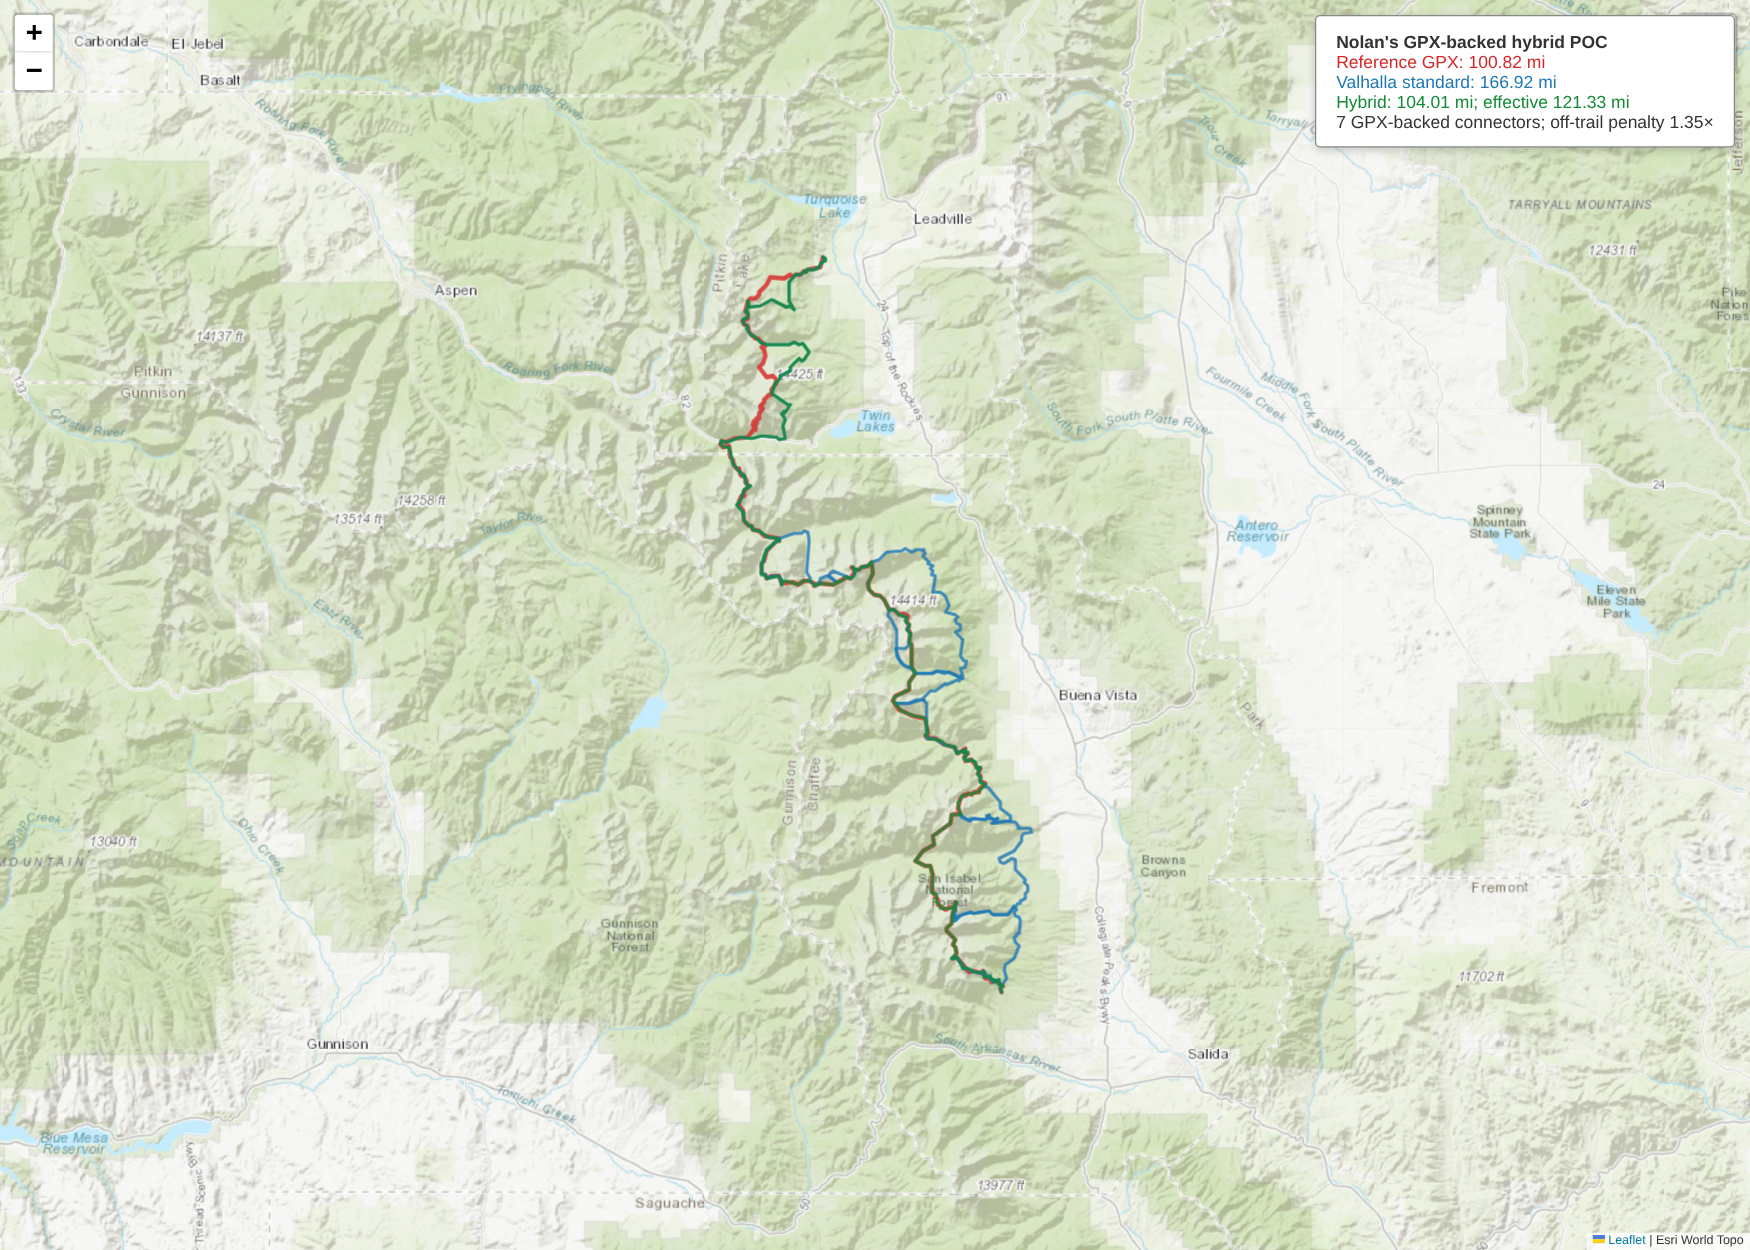
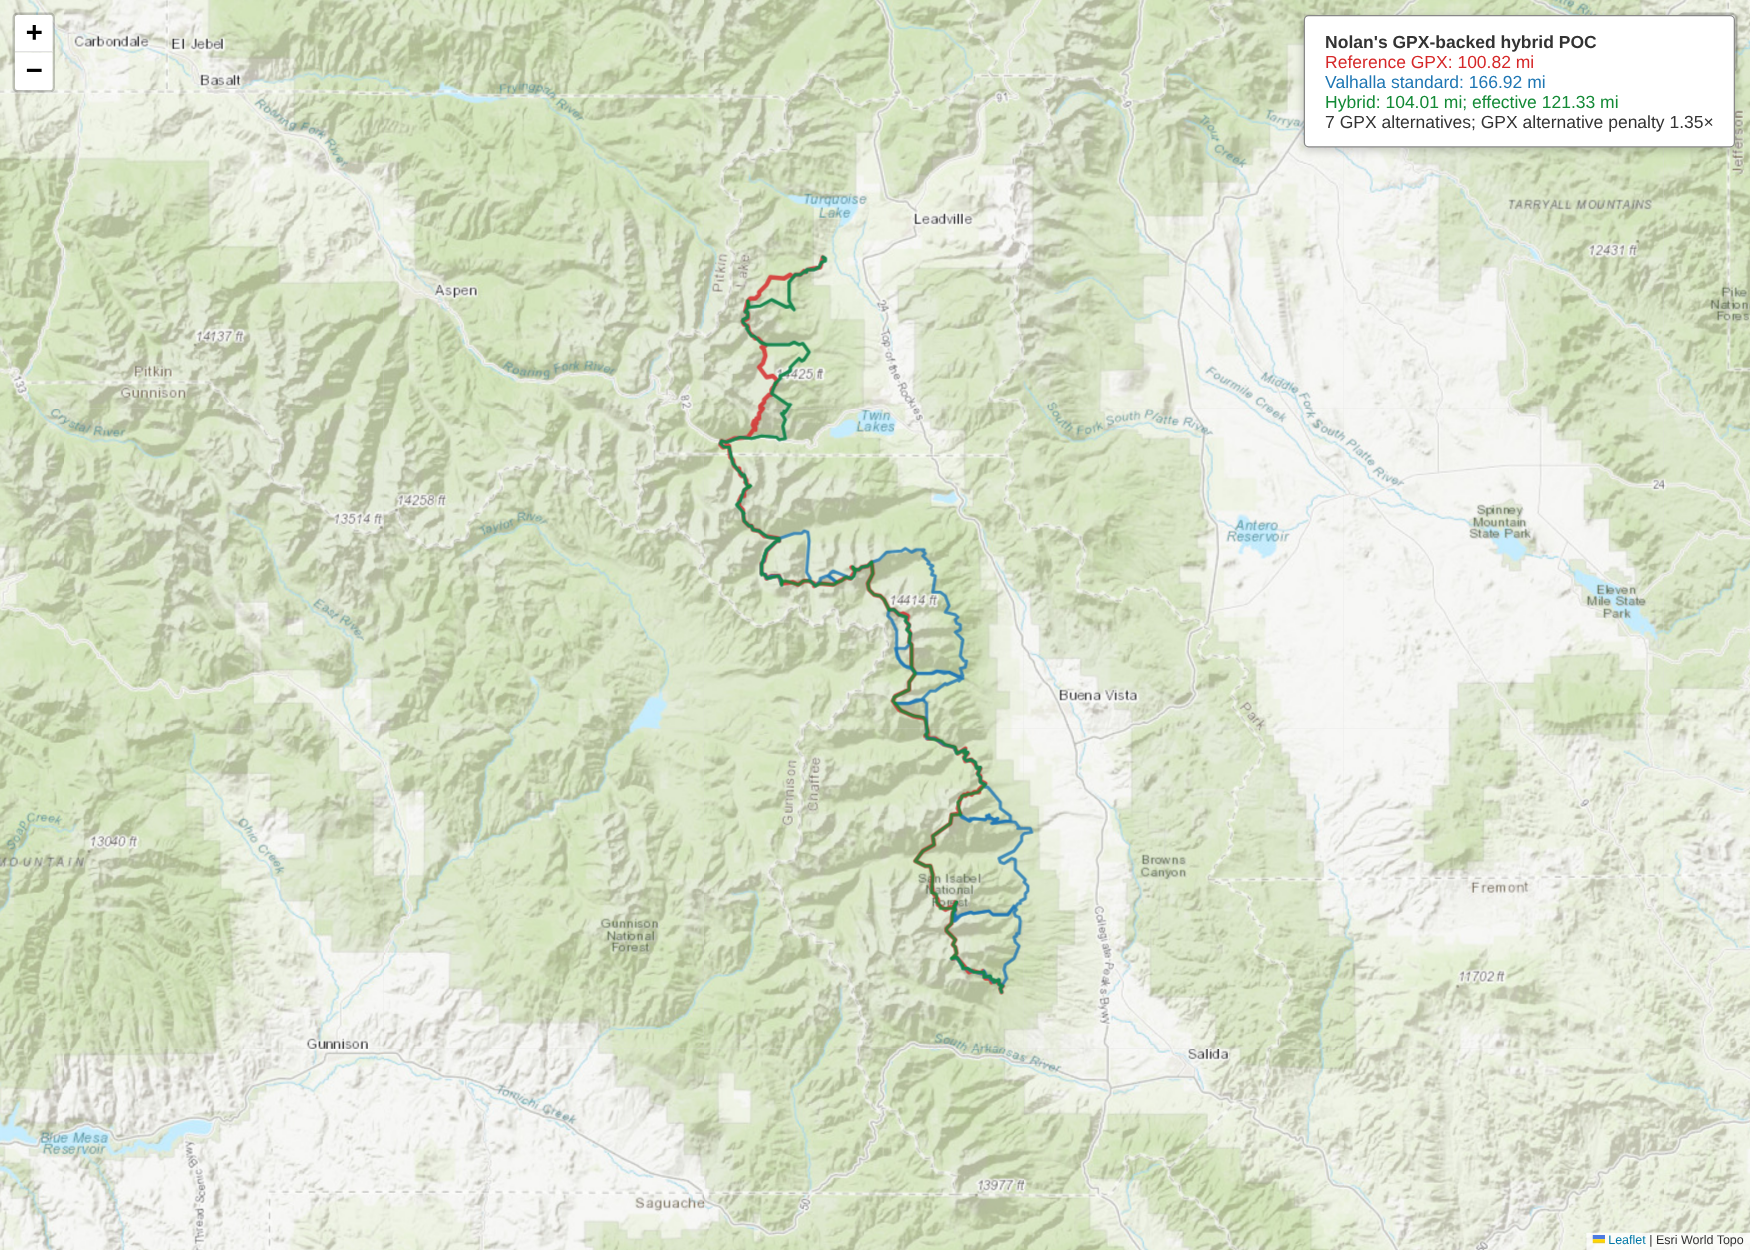
refactor: clarify GPX alternative provenance
- Avoid claiming segment-level off-trail classification for whole-leg alternatives
- Rename exported penalty and alternative fields consistently
- Pin GPX fallback geometry and effective mileage in tests

Changed region(s): [[0.7406, 0.0, 0.9257, 0.1248]]

diff --git a/peakroutefinder/poc/nolans.py b/peakroutefinder/poc/nolans.py
@@ -17,7 +17,7 @@ EARTH_RADIUS_MILES = 3958.7613
 GPX_NAMESPACE = {"g": "http://www.topografix.com/GPX/1/1"}
 MAX_DISTANCE_METERS = 250_000
 MAX_HIKING_DIFFICULTY = 6
-GPX_OFFTRAIL_PENALTY = 1.35
+GPX_ALTERNATIVE_PENALTY = 1.35
 STANDARD_PEAK_NAMES = (
     "Mount Shavano",
     "Tabeguache Peak",
@@ -273,11 +273,11 @@ def route_sequence(client: ValhallaClient, points: Sequence[Peak]) -> dict:
 def hybrid_route(
     valhalla_route: dict,
     reference_legs: Sequence[dict],
-    offtrail_penalty: float = GPX_OFFTRAIL_PENALTY,
+    alternative_penalty: float = GPX_ALTERNATIVE_PENALTY,
 ) -> dict:
     """Choose between Valhalla and penalty-weighted GPX-backed connectors."""
-    if offtrail_penalty < 1.0:
-        raise ValueError("off-trail penalty must be at least 1.0")
+    if alternative_penalty < 1.0:
+        raise ValueError("GPX alternative penalty must be at least 1.0")
     if len(valhalla_route["legs"]) != len(reference_legs):
         raise ValueError("reference legs do not match the Valhalla route")
 
@@ -286,7 +286,7 @@ def hybrid_route(
         valhalla_route["legs"], reference_legs
     ):
         gpx_miles = path_miles(reference_leg["geometry"])
-        gpx_effective_miles = gpx_miles * offtrail_penalty
+        gpx_effective_miles = gpx_miles * alternative_penalty
         use_valhalla = (
             valhalla_leg["status"] == "ok"
             and valhalla_leg["miles"] <= gpx_effective_miles
@@ -295,7 +295,7 @@ def hybrid_route(
             "origin": valhalla_leg["origin"],
             "destination": valhalla_leg["destination"],
             "status": "ok",
-            "source": "valhalla" if use_valhalla else "gpx-backed-off-trail",
+            "source": "valhalla" if use_valhalla else "gpx-alternative",
             "miles": valhalla_leg["miles"] if use_valhalla else gpx_miles,
             "effective_miles": (
                 valhalla_leg["miles"] if use_valhalla else gpx_effective_miles
@@ -306,7 +306,7 @@ def hybrid_route(
                 else reference_leg["geometry"]
             ),
             "reference_gpx_miles": reference_leg["miles"],
-            "gpx_connector_miles": gpx_miles,
+            "gpx_alternative_miles": gpx_miles,
             "gpx_effective_miles": gpx_effective_miles,
             "valhalla_miles": (
                 valhalla_leg["miles"] if valhalla_leg["status"] == "ok" else None
@@ -320,8 +320,8 @@ def hybrid_route(
         "complete": True,
         "total_miles": sum(leg["miles"] for leg in legs),
         "effective_miles": sum(leg["effective_miles"] for leg in legs),
-        "gpx_connector_count": sum(
-            leg["source"] == "gpx-backed-off-trail" for leg in legs
+        "gpx_alternative_count": sum(
+            leg["source"] == "gpx-alternative" for leg in legs
         ),
         "legs": legs,
     }
@@ -412,7 +412,7 @@ def main() -> int:
             "shortest": True,
             "max_hiking_difficulty": MAX_HIKING_DIFFICULTY,
             "max_distance_meters": MAX_DISTANCE_METERS,
-            "gpx_offtrail_penalty": GPX_OFFTRAIL_PENALTY,
+            "gpx_alternative_penalty": GPX_ALTERNATIVE_PENALTY,
             "reference_gpx_sha256": hashlib.sha256(
                 args.reference_gpx.read_bytes()
             ).hexdigest(),
@@ -434,7 +434,7 @@ def main() -> int:
         if route_name == "hybrid":
             summary += (
                 f" (effective {route['effective_miles']:.2f}; "
-                f"{route['gpx_connector_count']} GPX connectors)"
+                f"{route['gpx_alternative_count']} GPX alternatives)"
             )
         print(f"{route_name}: {summary}")
         for leg in route["legs"]:

diff --git a/tests/test_nolans_valhalla.py b/tests/test_nolans_valhalla.py
@@ -42,7 +42,7 @@ def test_split_reference_legs_returns_miles_and_geometry() -> None:
     assert legs[1]["geometry"] == [(0.0, 1.0), (0.0, 2.0)]
 
 
-def test_hybrid_route_selects_penalized_gpx_connectors() -> None:
+def test_hybrid_route_selects_penalized_gpx_alternatives() -> None:
     valhalla_legs = [
         {
             "origin": "A",
@@ -75,14 +75,19 @@ def test_hybrid_route_selects_penalized_gpx_connectors() -> None:
     route = hybrid_route({"legs": valhalla_legs}, reference_legs)
 
     assert route["complete"] is True
-    assert route["gpx_connector_count"] == 2
+    assert route["gpx_alternative_count"] == 2
     assert [leg["source"] for leg in route["legs"]] == [
-        "gpx-backed-off-trail",
+        "gpx-alternative",
         "valhalla",
-        "gpx-backed-off-trail",
+        "gpx-alternative",
     ]
     assert route["legs"][0]["geometry"] == reference_legs[0]["geometry"]
     assert route["legs"][1]["geometry"] == valhalla_legs[1]["geometry"]
+    assert route["legs"][2]["geometry"] == reference_legs[2]["geometry"]
+    assert route["legs"][2]["effective_miles"] == pytest.approx(
+        route["legs"][2]["gpx_effective_miles"]
+    )
+    assert route["legs"][2]["valhalla_miles"] is None
     assert route["total_miles"] == pytest.approx(
         69.093 + 90.0 + 69.093, abs=0.001
     )

diff --git a/poc/valhalla/README.md b/poc/valhalla/README.md
@@ -48,7 +48,7 @@ The GPX comes from the [Fastest Known Time Nolan's route page](https://fastestkn
 | Costing | `pedestrian`, `shortest=true`, `use_hills=1` |
 | Hiking difficulty | 6, the most permissive `sac_scale` setting; this is a coverage POC, not a safety recommendation |
 | Maximum route distance | 250,000 meters, explicitly above Valhalla's 100,000-meter default |
-| GPX off-trail penalty | 1.35× for candidate selection only; actual GPX mileage is still reported |
+| GPX alternative penalty | 1.35× for candidate selection only; actual GPX mileage is still reported |
 
 ## Results
 
@@ -62,7 +62,7 @@ Valhalla returned geometry for every requested leg. No leg failed, but many retu
 | GPX-backed hybrid, same endpoints | 104.01 mi | 100.82 mi | +3.19 mi (+3.2%) |
 | Sherman-to-Shavano variant, summit to summit | 166.39 mi | No matching GPX | Not compared |
 
-The hybrid selects each GPX leg when `GPX miles × 1.35 < Valhalla miles`, or when Valhalla fails. It uses **7 GPX-backed connectors**, retains Valhalla on 8 legs, and has **121.33 penalty-weighted miles**. Actual mileage remains the geometric distance of the selected path; the penalty affects only selection. The `gpx-backed-off-trail` source identifies the connector's evidence, not a claim that every GPX point is off-trail.
+The hybrid selects each GPX leg when `GPX miles × 1.35 < Valhalla miles`, or when Valhalla fails. It uses **7 GPX alternatives**, retains Valhalla on 8 legs, and has **121.33 penalty-weighted miles**. Actual mileage remains the geometric distance of the selected path; the penalty affects only selection. The `gpx-alternative` source explicitly denotes whole-leg reference geometry; no segment-level off-trail classification is claimed.
 
 The Sherman variant uses Sherman, Elbert, La Plata, Huron, Missouri, Belford, Oxford, Harvard, Columbia, Yale, Princeton, Antero, Tabeguache, and Shavano. It excludes trailhead approaches because its reference trailheads were not supplied.
 
